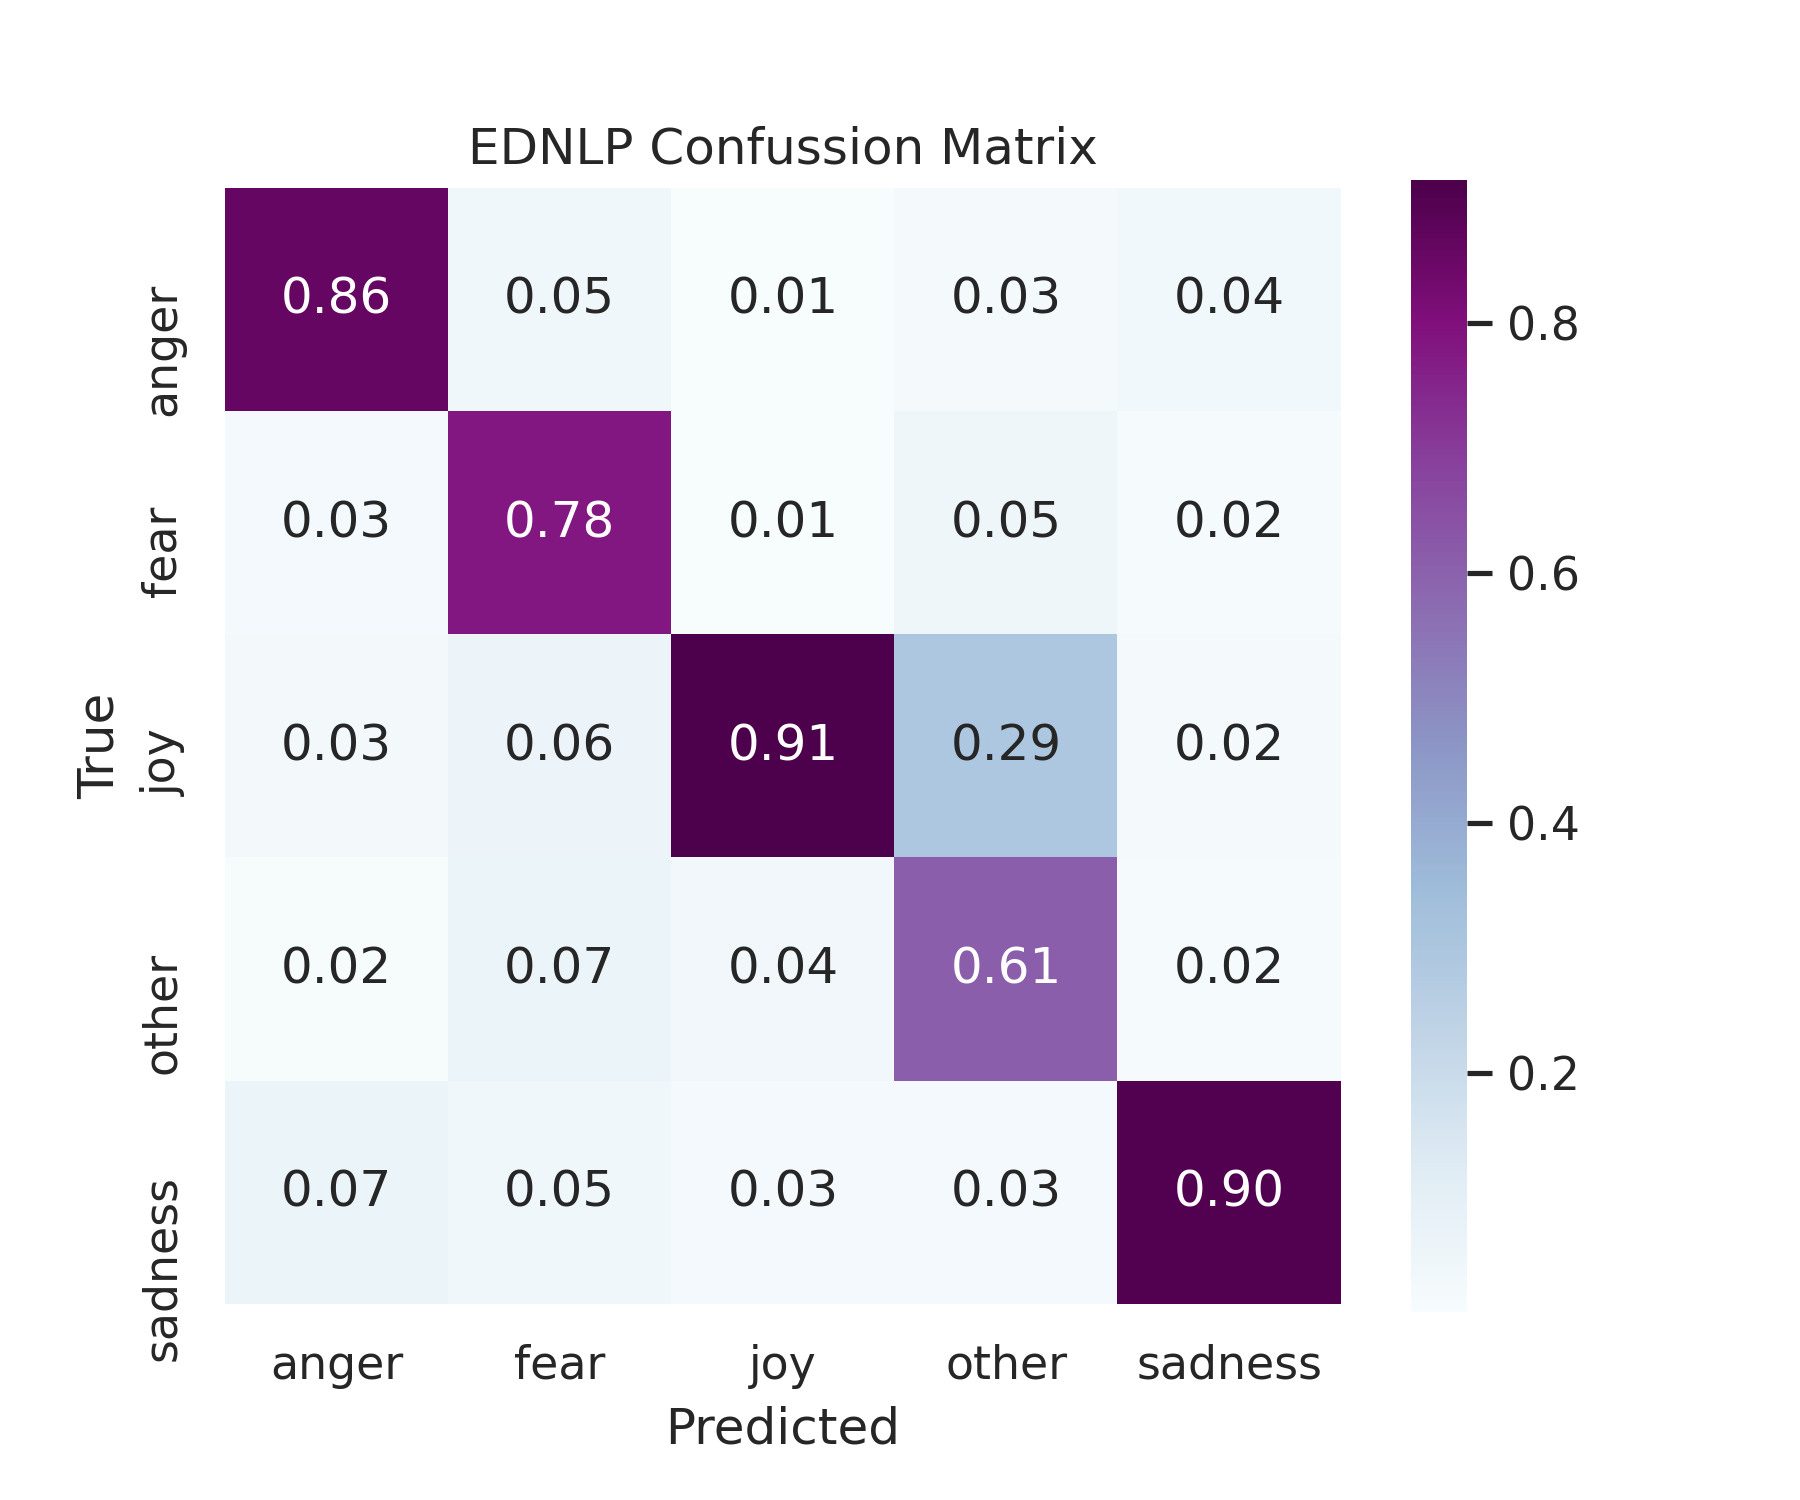
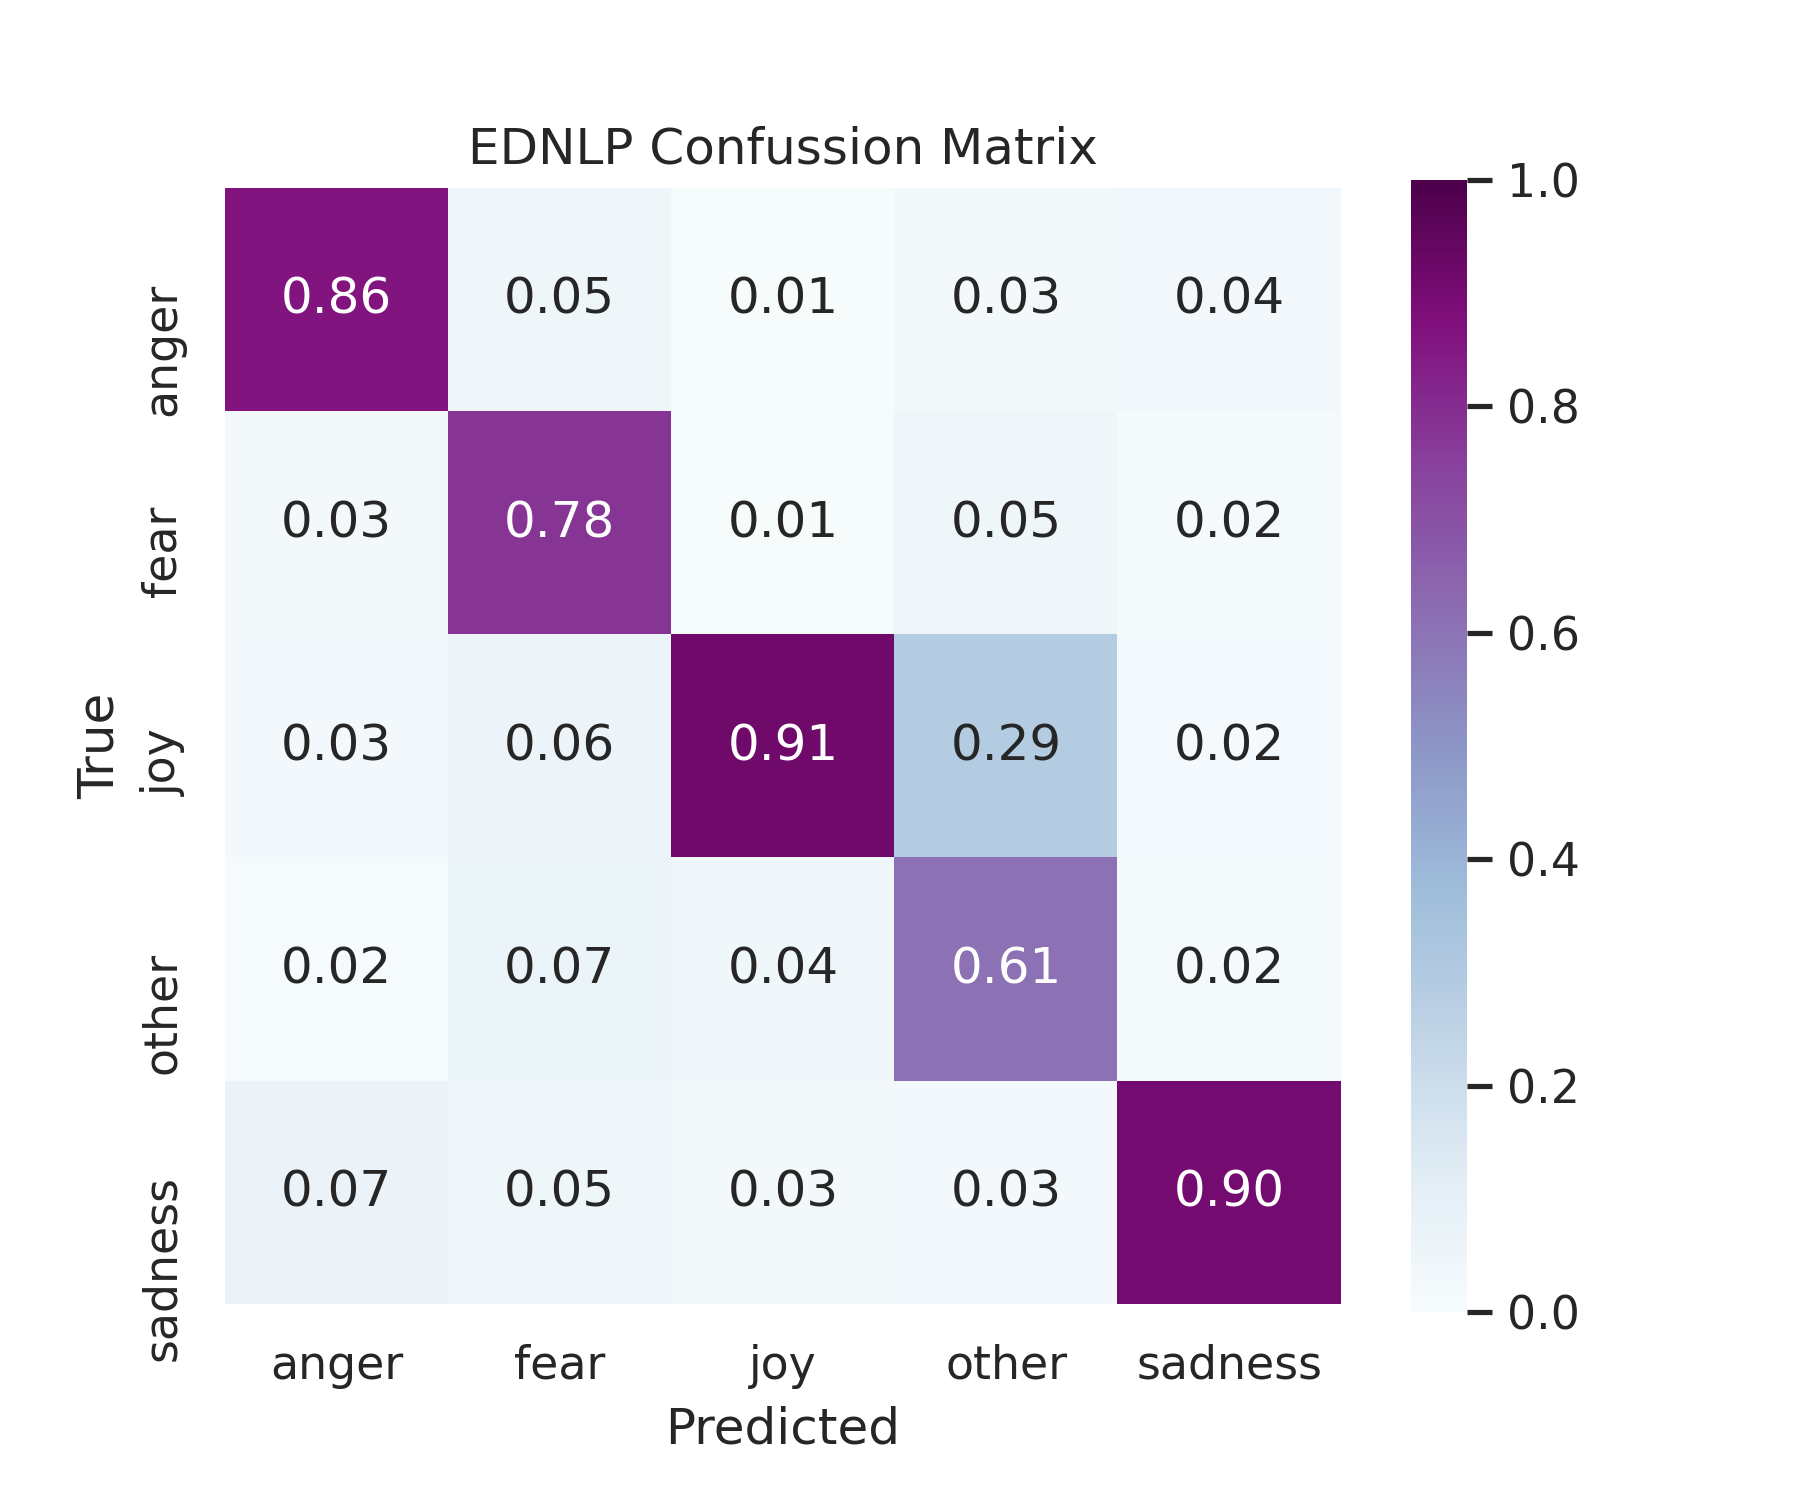
Heatmap Adjustments
Modified Heatmap and Confussion Matrix scales.

diff --git a/main.py b/main.py
@@ -142,12 +142,12 @@ def decodeWordIndex(text, wordIndex):
     return ' '.join([reverse_word_index.get(i, "?") for i in text])
 
 # Plotting of confussion matrixes or heatmaps.
-def plot_confussion_matrix(data, labels, name='output', title='Confussion Matrix', annot=True, fmt='.2f', ylabel='True', xlabel='Predicted'):
+def plot_confussion_matrix(data, labels, name='output', title='Confussion Matrix', annot=True, fmt='.2f', ylabel='True', xlabel='Predicted', vmin=None, vmax=None):
     sb.set(color_codes=True)
     plt.figure(1, figsize=(6, 5))
     plt.title = (f'{name} - {title}')
     
-    ax = sb.heatmap(data, annot=annot, cmap='BuPu', linecolor='black', fmt=fmt, square=True)
+    ax = sb.heatmap(data, annot=annot, cmap='BuPu', linecolor='black', fmt=fmt, square=True, vmin=vmin, vmax=vmax)
     
     ax.set_xticklabels(labels)
     ax.set_yticklabels(labels)
@@ -324,7 +324,7 @@ print(report)
 
 # Confussion Matrix
 ednlp_cm=confusion_matrix(ednlp['te']['y'], testPrediction, normalize='pred')
-plot_confussion_matrix(ednlp_cm, e_index, name='EDNLP', fmt='.2f')
+plot_confussion_matrix(ednlp_cm, e_index, name='EDNLP', fmt='.2f', vmin=0, vmax=1)
 
 # %% ANNOTATING MHD, BECOMES EMHD
 eHeaders=['post', 'reply', 'post_emotion', 'reply_emotion']
@@ -362,7 +362,7 @@ plot_countbars(emhd, 'reply')
 
 #Heatmap
 emhd_cm = confusion_matrix(emhd['post_emotion'], emhd['reply_emotion'], normalize=None)
-plot_confussion_matrix(emhd_cm, e_index, name='EMHD', title='Heatmap', ylabel='Posts', xlabel='Replies', fmt='d')
+plot_confussion_matrix(emhd_cm, e_index, name='EMHD', title='Heatmap', ylabel='Posts', xlabel='Replies', fmt='d', vmin=0)
 
 # %% That was fun wasn't it?
 print(':)')
